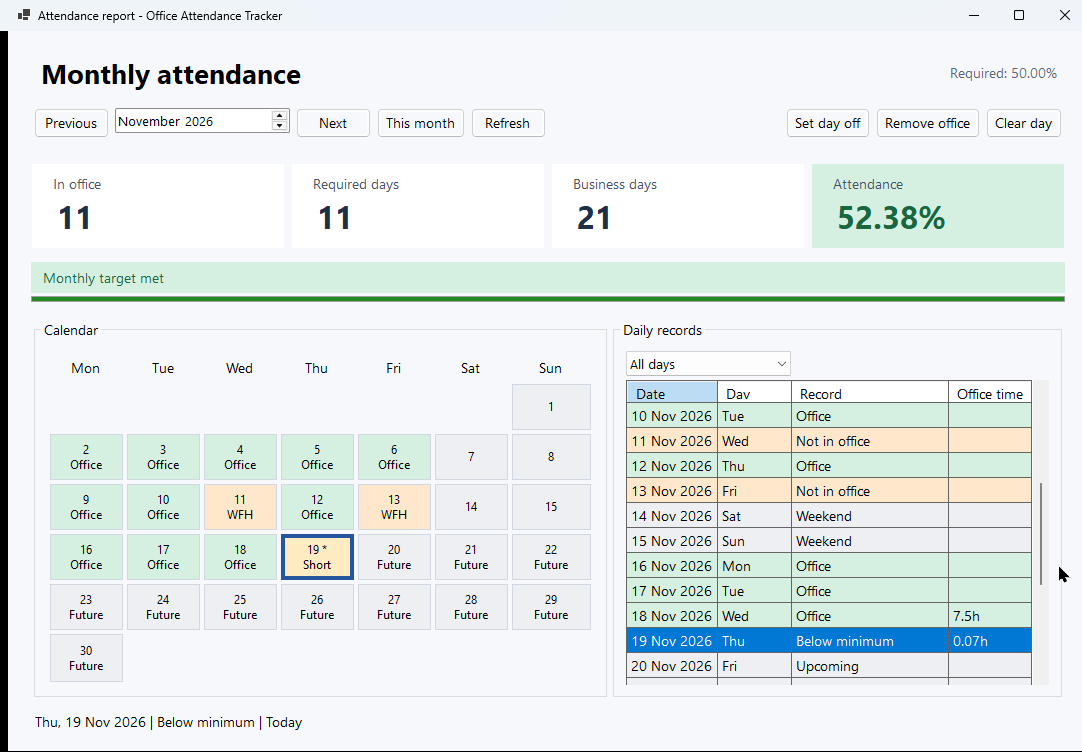
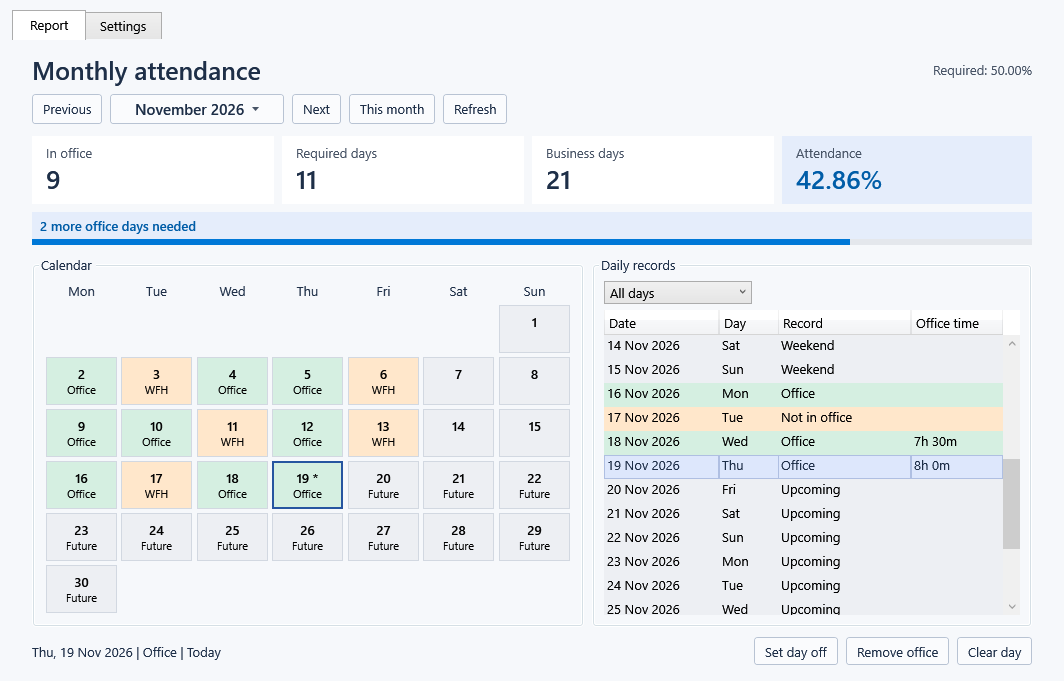
Update Windows build and WPF quick start

diff --git a/README.md b/README.md
@@ -1,4 +1,4 @@
-# Office Attendance Tracker
+# Office Attendance Tracker
 
 [![Github Release](https://img.shields.io/github/v/release/khchanel/office-attendance-tracker?style=flat)](https://github.com/khchanel/office-attendance-tracker/releases)
 [![build](https://github.com/khchanel/office-attendance-tracker/actions/workflows/dotnet.yml/badge.svg)](https://github.com/khchanel/office-attendance-tracker/actions/workflows/dotnet.yml)
@@ -29,7 +29,8 @@ Review monthly target progress, explore the attendance calendar, and filter dail
 
 ![Monthly attendance report with target met, interactive calendar, and daily records](./docs/screenshots/Screenshot-MonthlyReport.png)
 
-**Settings:**  
+**Settings tab**
+
 ![Settings UI](./docs/screenshots/Screenshot-SettingsUI.png)
 
 
@@ -51,17 +52,17 @@ dotnet publish OfficeAttendanceTracker.Service -c Release -o ./publish/service
 ## Quick Start
 
 ### Prerequisites
-- .NET 8 Runtime
+- .NET 8 Desktop Runtime for the Windows desktop app or .NET 8 Runtime for Service mode
 - Windows OS
 - Unix-like OS (Service mode only)
 
 ### Desktop App (Recommended)
 
 1. Download and run `OfficeAttendanceTracker.Desktop.exe`
-2. Configure office networks via Settings dialog (right-click tray icon)
-3. Click "Detect Current" to auto-detect your network, or enter manually in CIDR format
+2. Right-click the tray icon and choose **Settings...** to open the Settings tab
+3. Click **Detect current** or enter your office networks in CIDR format, then click **Save**
 
-Right-click the tray icon and choose **Reports...** to review monthly attendance.
+Double-click the tray icon or choose **Reports...** to open the Report tab in the same window. Closing the window keeps the tracker in the system tray. Choose **Exit** from the tray menu to quit.
 
 
 ### Windows Service
